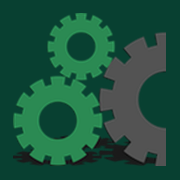
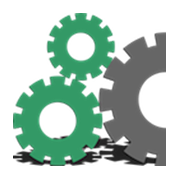
commit 37790665-gcode

diff --git a/apps/37790665-gcode/index.html b/apps/37790665-gcode/index.html
@@ -1,16 +1,8 @@
 <!DOCTYPE html>
-<html><head><link rel="manifest" href="/apps/37790665-gcode/manifest.json"><meta name="mobile-web-app-capable" content="yes"><meta name="description" content="A gcode developed PWA app"><meta name="apple-touch-fullscreen" content="yes"><meta name="apple-mobile-web-app-capable" content="yes"><meta name="apple-mobile-web-app-status-bar-style" content="black-translucent"><meta property="fpwa:template" content="pwa=true,name=gcode,short_name=gcode,theme_color=#ffffff,background_color=#ffffff,display=standalone,orientation=any"><link rel="apple-touch-icon" href="/apps/37790665-gcode/icon.png"><link rel="apple-touch-icon-precomposed" href="/apps/37790665-gcode/icon.png"><link rel="icon" href="/apps/37790665-gcode/icon.png"><style>
-.splash{position:absolute;background-size:300px;background-image:url('splash.icon.png');background-position:center;background-repeat:no-repeat;top:0px;bottom:0px;left:0px;right:0px;color:#0F0F0F;background-color:#ffffff;}
-.loader{font-size:50px;text-indent:-9999em;overflow:hidden;width:1em;height:1em;border-radius:50%;margin:72px auto;position:absolute;bottom:20px;left:20px;right:20px;bottom:0;-webkit-transform:translateZ(0);-ms-transform:translateZ(0);transform:translateZ(0);-webkit-animation:load6 1.7s infinite ease,round 1.7s infinite ease;animation:load6 1.7s infinite ease,round 1.7s infinite ease}@-webkit-keyframes load6{0%{box-shadow:0 -.83em 0 -.4em,0 -.83em 0 -.42em,0 -.83em 0 -.44em,0 -.83em 0 -.46em,0 -.83em 0 -.477em}5%,95%{box-shadow:0 -.83em 0 -.4em,0 -.83em 0 -.42em,0 -.83em 0 -.44em,0 -.83em 0 -.46em,0 -.83em 0 -.477em}10%,59%{box-shadow:0 -.83em 0 -.4em,-.087em -.825em 0 -.42em,-.173em -.812em 0 -.44em,-.256em -.789em 0 -.46em,-.297em -.775em 0 -.477em}20%{box-shadow:0 -.83em 0 -.4em,-.338em -.758em 0 -.42em,-.555em -.617em 0 -.44em,-.671em -.488em 0 -.46em,-.749em -.34em 0 -.477em}38%{box-shadow:0 -.83em 0 -.4em,-.377em -.74em 0 -.42em,-.645em -.522em 0 -.44em,-.775em -.297em 0 -.46em,-.82em -.09em 0 -.477em}100%{box-shadow:0 -.83em 0 -.4em,0 -.83em 0 -.42em,0 -.83em 0 -.44em,0 -.83em 0 -.46em,0 -.83em 0 -.477em}}@keyframes load6{0%{box-shadow:0 -.83em 0 -.4em,0 -.83em 0 -.42em,0 -.83em 0 -.44em,0 -.83em 0 -.46em,0 -.83em 0 -.477em}5%,95%{box-shadow:0 -.83em 0 -.4em,0 -.83em 0 -.42em,0 -.83em 0 -.44em,0 -.83em 0 -.46em,0 -.83em 0 -.477em}10%,59%{box-shadow:0 -.83em 0 -.4em,-.087em -.825em 0 -.42em,-.173em -.812em 0 -.44em,-.256em -.789em 0 -.46em,-.297em -.775em 0 -.477em}20%{box-shadow:0 -.83em 0 -.4em,-.338em -.758em 0 -.42em,-.555em -.617em 0 -.44em,-.671em -.488em 0 -.46em,-.749em -.34em 0 -.477em}38%{box-shadow:0 -.83em 0 -.4em,-.377em -.74em 0 -.42em,-.645em -.522em 0 -.44em,-.775em -.297em 0 -.46em,-.82em -.09em 0 -.477em}100%{box-shadow:0 -.83em 0 -.4em,0 -.83em 0 -.42em,0 -.83em 0 -.44em,0 -.83em 0 -.46em,0 -.83em 0 -.477em}}@-webkit-keyframes round{0%{-webkit-transform:rotate(0);transform:rotate(0)}100%{-webkit-transform:rotate(360deg);transform:rotate(360deg)}}@keyframes round{0%{-webkit-transform:rotate(0);transform:rotate(0)}100%{-webkit-transform:rotate(360deg);transform:rotate(360deg)}}
-</style><script>
+<html><head><link rel="manifest" href="/apps/37790665-gcode/manifest.json"><meta name="mobile-web-app-capable" content="yes"><meta name="description" content="A gcode developed PWA app"><meta name="apple-touch-fullscreen" content="yes"><meta name="apple-mobile-web-app-capable" content="yes"><meta name="apple-mobile-web-app-status-bar-style" content="black-translucent"><meta property="fpwa:template" content="pwa=true,name=gcode,short_name=gcode,theme_color=#ffffff,background_color=#ffffff,display=standalone,orientation=any"><link rel="apple-touch-icon" href="/apps/37790665-gcode/icon.png"><link rel="apple-touch-icon-precomposed" href="/apps/37790665-gcode/icon.png"><link rel="icon" href="/apps/37790665-gcode/icon.png"><script>
   window.PWA={globals:{}};
   window.PWA.globals.appName="gcode";
   window.PWA.globals.orientation="any";
-  window.PWA.globals.icon="icon.png";
-  window.PWA.globals.icon180x180="180x180.icon.png";
-  window.PWA.globals.icon192x192="192x192.icon.png";
-  window.PWA.globals.icon512x512="512x512.icon.png";
-  window.PWA.globals.splash="splash.png";
   window.PWA.globals.splashColor="#0F0F0F";
   window.PWA.globals.mockFrame="iphoneX";
   window.PWA.globals.splashBackgroundColor="#ffffff";
@@ -80,9 +72,9 @@ if (window.opener && window.opener !== window) {
   created: 2024-2-4T14:34:38
   appName: gcode
   splashSize: 300px
- splash: https://gcode.com.au/images/ios/ios-appicon-180-180.png
-  icon: https://gcode.com.au/images/ios/ios-appicon-180-180op.png
-  icon180x180: https://gcode.com.au/images/ios/ios-appicon-180-180op.png
+ splash: https://logo.com/image-cdn/images/kts928pd/production/9fa92ac5a9498502d2707ced798d763fe7490ecc-1600x1026.png?w=1080&q=72
+  icon: https://logo.com/image-cdn/images/kts928pd/production/9fa92ac5a9498502d2707ced798d763fe7490ecc-1600x1026.png?w=1080&q=72
+  icon180x180: https://logo.com/image-cdn/images/kts928pd/production/9fa92ac5a9498502d2707ced798d763fe7490ecc-1600x1026.png?w=1080&q=72
   mockFrame: iphoneX
   splashBackgroundColor: #ffffff
   splashDuration: 2000
